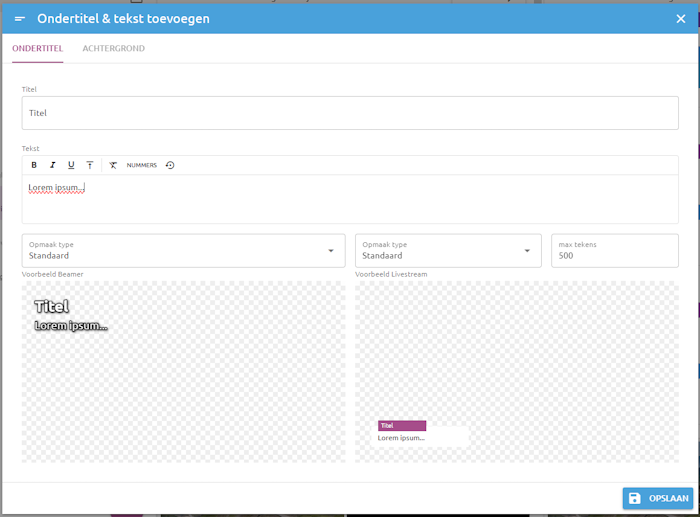
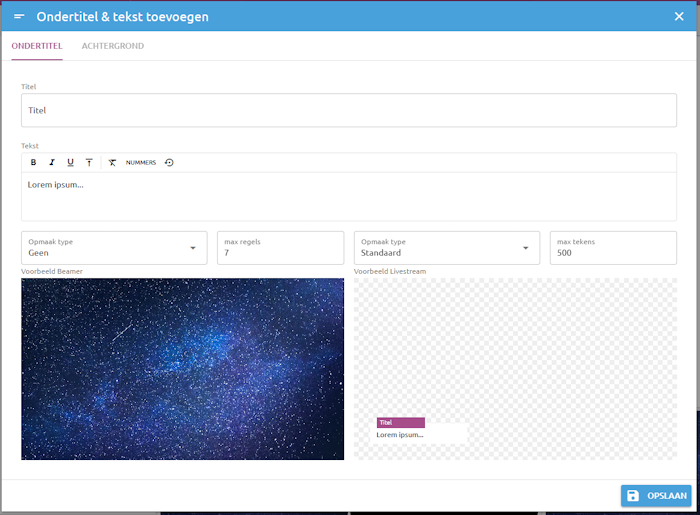
add maxBeamerLine to settings caption/scripture + help update

diff --git a/src/components/caption/CaptionSettingsPreview.vue b/src/components/caption/CaptionSettingsPreview.vue
@@ -1,14 +1,29 @@
 <template>
   <div class="row q-gutter-md">
     <div class="col">
-      <q-select
-        v-model="settingsFormatBeamer"
-        :options="listFormatBeamer"
-        fill-input
-        outlined
-        label="Opmaak type"
-        @update:model-value="$emit('update:formatBeamer', settingsFormatBeamer)"
-      />
+      <div class="row">
+        <q-select
+          v-model="settingsFormatBeamer"
+          :options="listFormatBeamer"
+          fill-input
+          class="col q-pb-none"
+          outlined
+          label="Opmaak type"
+          @update:model-value="$emit('update:formatBeamer', settingsFormatBeamer)"
+        />
+        <q-input
+          v-model.number="settingsMaxBeamerLine"
+          type="number"
+          outlined
+          stack-label
+          class="col2 q-pl-md q-pb-none"
+          min="1"
+          step="1"
+          label="max regels"
+          :rules="[min1]"
+          @update:model-value="$emit('update:maxBeamerLine', settingsMaxBeamerLine)"
+        />
+      </div>
       <label class="label">Voorbeeld Beamer</label>
       <div>
         <OutputPreview :component="CaptionOutputBeamer" :presentation="{ settings, control }" bg-show="beamer" />
@@ -31,10 +46,10 @@
           outlined
           stack-label
           class="col2 q-pl-md q-pb-none"
-          min="100"
+          min="50"
           step="50"
           label="max tekens"
-          :rules="[min100]"
+          :rules="[min50]"
           @update:model-value="$emit('update:maxLivestreamChar', settingsMaxLivestreamChar)"
         />
       </div>
@@ -64,12 +79,14 @@ export default defineComponent({
     },
     formatBeamer: String,
     formatLivestream: String,
+    maxBeamerLine: Number,
     maxLivestreamChar: Number,
     savedPos: Number
   },
   emits: [
     'update:formatBeamer',
     'update:formatLivestream',
+    'update:maxBeamerLine',
     'update:maxLivestreamChar'
   ],
   setup () {
@@ -79,6 +96,7 @@ export default defineComponent({
     return {
       settingsFormatBeamer: this.settings.formatBeamer,
       settingsFormatLivestream: this.settings.formatLivestream,
+      settingsMaxBeamerLine: this.settings.maxBeamerLine,
       settingsMaxLivestreamChar: this.settings.maxLivestreamChar,
       listFormatLivestream: [
         'Standaard',
@@ -115,6 +133,10 @@ export default defineComponent({
       this.beamerTitleDebounce()
       this.splitSlidesDebounce()
     },
+    'settings.maxBeamerLine' () {
+      this.updated = false
+      this.splitSlidesDebounce()
+    },
     'settings.maxLivestreamChar' () {
       this.updated = false
       this.splitSlidesDebounce()
@@ -130,11 +152,17 @@ export default defineComponent({
     this.splitSlidesDebounce = debounce(this.splitSlidesDebounce, 500)
   },
   methods: {
-    min100 (val) {
+    min1 (val) {
       if (typeof val !== 'number') {
         return
       }
-      return val >= 100 || 'Minimaal 100'
+      return val >= 1 || 'Minimaal 1'
+    },
+    min50 (val) {
+      if (typeof val !== 'number') {
+        return
+      }
+      return val >= 50 || 'Minimaal 50'
     },
     beamerTitle () {
       // title beamer
@@ -145,7 +173,7 @@ export default defineComponent({
     },
     splitSlides () {
       // slides livestream & beamer
-      this.control.sections = splitTextCaption(this.settings.text, this.settings.formatBeamer, this.settings.maxLivestreamChar || 500)
+      this.control.sections = splitTextCaption(this.settings.text, this.settings.formatBeamer,  this.settings.maxBeamerLine || 7, this.settings.maxLivestreamChar || 500)
       this.countCharSections()
     },
     splitSlidesDebounce () {

diff --git a/src/components/caption/CaptionSplit.js b/src/components/caption/CaptionSplit.js
@@ -2,7 +2,7 @@ import { wrapTextLinesFormat } from '../common/WrapText.js'
 
 const beamerFont = 'Ubuntu, "-apple-system", "Helvetica Neue", Helvetica, Arial, sans-serif'
 
-export function splitTextCaption (text, beamerFormat, maxCharsPerSlide = 500) {
+export function splitTextCaption (text, beamerFormat, maxBeamerLinePerSection = 7, maxCharsPerSlide = 500) {
   if (!text) {
     const slides = [['']]
     const beamerLines = [['']]
@@ -28,7 +28,7 @@ export function splitTextCaption (text, beamerFormat, maxCharsPerSlide = 500) {
         outputSections.push( { slides, beamerLines } )
       }
       // beamer regels & opsplitsen naar ..regels & slides met maximaal ...char vanuit inputsecton 
-      const textLinesTemp = textLines(inputSection, beamerFormat, beamerFont, 7)
+      const textLinesTemp = textLines(inputSection, beamerFormat, beamerFont, maxBeamerLinePerSection)
       textLinesTemp.forEach(textLineTemp => {
         const beamerLines = textLineTemp.formats
         const slides = splitSectionToSlides(textLineTemp, maxCharsPerSlide) // opsplisten naar livestream (sommatie hiervan = beamer section in control)
@@ -36,7 +36,7 @@ export function splitTextCaption (text, beamerFormat, maxCharsPerSlide = 500) {
         outputSections.push( { slides, beamerLines } )
       })
   })
-
+  console.log('outputSections', outputSections)
   return outputSections  
 }
 
@@ -207,7 +207,16 @@ function splitSectionToSlides (section, livestreamMaxCharCount = 500) {
         })
       }
       
-      htmlText += htmlformat + formatText.text.replace(/ {2}/g, '&nbsp;&nbsp;').replace(/^ /g, '&nbsp;').replace(/ $/g, '&nbsp;') + htmlformat.replace('<','</')
+      htmlText +=
+        htmlformat
+        + formatText.text
+          .replace(/&/g, '&amp;') // first & // html-entities
+          .replace(/</g, '&lt;')
+          .replace(/>/g, '&gt;')
+          .replace(/ {2}/g, '&nbsp;&nbsp;')
+          .replace(/^ /g, '&nbsp;')
+          .replace(/ $/g, '&nbsp;')
+        + htmlformat.replace('<','</')
     })
     htmlText += '</div>'
     slides.push(htmlText)

diff --git a/src/components/help/HelpCaption.vue b/src/components/help/HelpCaption.vue
@@ -25,7 +25,7 @@
     <p>
       <b><u>Tekst</u></b><br>
       Vul hier de tekst in die je wilt weergegeven.<br>
-      Door een lege tussenregel te maken wordt het vervolg van de tekst op een vervolg sheet gezet. De sheet op de cursos positie wordt getoond.
+      Door een lege tussenregel te maken wordt het vervolg van de tekst op een vervolg sheet gezet. De sheet op de cursor positie wordt getoond.
     </p>
     <p>
       Eventueel kunnen delen van de tekst vet, cursief, onderstreept worden,<br>
@@ -57,6 +57,17 @@
         <b>Geen</b><br>
         Er niets weergegeven.
       </li>
+      <li>
+        <b>Max regels</b><br>
+        Hier kan je invoeren regels de tekst maximaal mag hebben voor hij in meerdere delen gesplitst wordt tov de invoer.<br>
+        Splitsen van regels gebeurt met de volgende voorwaarden:<br>
+        <sup>
+          Zoek eerst of minder dan 'Max regels' regels<br>
+          Dan naar een regeleinde of [.?!'"’]<br>
+          Dan naar [,:; spatie]<br>
+          Dan naar iets binnen 'Max regels'.
+        </sup>
+      </li>
     </ul>
     <p>
       <i><u>Opties Livestream:</u></i>
@@ -80,9 +91,7 @@
         Splitsen van regels gebeurt met de volgende voorwaarden:<br>
         <sup>
           Zoek eerst of minder dan 'Max tekens' tekens<br>
-          Dan naar een regeleinde<br>
-          Dan naar [.?!]+['"’]<br>
-          Dan naar [.?!]<br>
+          Dan naar een regeleinde of [.?!'"’]<br>
           Dan naar [,:; spatie]<br>
           Dan naar iets binnen 'Max tekens'.
         </sup>

diff --git a/src/components/help/HelpScripture.vue b/src/components/help/HelpScripture.vue
@@ -55,16 +55,25 @@
         Het gekozen boek & vertaling, hoofdstuk e.d. wordt als titel op de beamer en livestream weergegeven.
       </li>
       <li>
+        <b>Max regels</b><br>
+        Hier kan je invoeren regels de tekst maximaal mag hebben voor hij in meerdere delen gesplitst wordt tov de invoer.<br>
+        Splitsen van regels gebeurt met de volgende voorwaarden:<br>
+        <sup>
+          Zoek eerst of minder dan 'Max regels' regels<br>
+          Dan naar een regeleinde of [.?!'"’]<br>
+          Dan naar [,:; spatie]<br>
+          Dan naar iets binnen 'Max regels'.
+        </sup>
+      </li>
+      <li>
         <b>Max tekens</b><br>
         Hier kan je invoeren hoeveel tekens de tekst maximaal mag hebben voor hij in meerdere delen gesplitst wordt tov de tekst op de beamer.<br>
         Splitsen van regels gebeurt met de volgende voorwaarden:<br>
         <sup>
-          Zoek eerst of minder dan ingestelde aantal tekens<br>
-          Dan naar een regeleinde<br>
-          Dan naar [.?!]+['"’]<br>
-          Dan naar [.?!]<br>
+          Zoek eerst of minder dan 'Max tekens' tekens<br>
+          Dan naar een regeleinde of [.?!'"’]<br>
           Dan naar [,:; spatie]<br>
-          Dan naar iets binnen ingestelde aantal tekens.
+          Dan naar iets binnen 'Max tekens'.
         </sup>
       </li>
     </ul>

diff --git a/src/components/presentation-control-create.js b/src/components/presentation-control-create.js
@@ -44,9 +44,9 @@ export function addControlCloneDeep (presentation, noLivestream, splitSongLines,
         }
         resultPresentation.control.beamerTitleLines = resultPresentation.settings.formatBeamer === 'Geen' ? [] : titleLines(resultPresentation.settings.title, resultPresentation.settings.formatBeamer)
         if (noLivestream || resultPresentation.settings.formatLivestream === 'Geen') {
-          resultPresentation.control.sections = splitTextCaption(resultPresentation.settings.text, resultPresentation.settings.formatBeamer, 10000)
+          resultPresentation.control.sections = splitTextCaption(resultPresentation.settings.text, resultPresentation.settings.formatBeamer, resultPresentation.settings.maxBeamerLine || 7, 10000)
         } else {
-          resultPresentation.control.sections = splitTextCaption(resultPresentation.settings.text, resultPresentation.settings.formatBeamer, resultPresentation.settings.maxLivestreamChar || 500)
+          resultPresentation.control.sections = splitTextCaption(resultPresentation.settings.text, resultPresentation.settings.formatBeamer, resultPresentation.settings.maxBeamerLine || 7, resultPresentation.settings.maxLivestreamChar || 500)
         }
         if (!preview && startEnd) {
           // this.$store.startEnd = false // reset --> bijgolive

diff --git a/src/stores/versionUpdate.js b/src/stores/versionUpdate.js
@@ -133,6 +133,21 @@ export function versionUpdate (service) {
           default:
         }
       })
+        // eslint-disable-next-line
+      case version <= 2.0105:
+      service.presentations.forEach(presentation => {
+        switch (presentation.type) {
+          case 'caption': {
+            presentation.settings.maxBeamerLine = 20 // high so you don't break formatting
+            break
+          }
+          case 'scripture': {
+            presentation.settings.maxBeamerLine = 20 // high so you don't break formatting
+            break
+          }
+          default:
+        }
+      })
       // eslint-disable-next-line
     default: // no changes
       // console.log(`version file: ${version}`)

diff --git a/src/components/presentation-types.js b/src/components/presentation-types.js
@@ -77,6 +77,7 @@ export default [
       bgFileId: null,
       formatBeamer: 'Geen',
       formatLivestream: 'Standaard',
+      maxBeamerLine: 7,
       maxLivestreamChar: 500,
       osc: {
         clip: null,
@@ -217,6 +218,7 @@ export default [
       bgFileId: null,
       formatBeamer: 'Bijbeltekst',
       formatLivestream: 'Breed',
+      maxBeamerLine: 7,
       maxLivestreamChar: 500,
       osc: {
         clip: null,

diff --git a/src/components/caption/CaptionSettings.vue b/src/components/caption/CaptionSettings.vue
@@ -19,6 +19,7 @@
           <CaptionSettingsPreview
             v-model:formatBeamer="settings.formatBeamer"
             v-model:formatLivestream="settings.formatLivestream"
+            v-model:maxBeamerLine="settings.maxBeamerLine"
             v-model:maxLivestreamChar="settings.maxLivestreamChar"
             :settings="settings"
             :saved-pos="savedPos"

diff --git a/src/components/scripture/ScriptureSettings.vue b/src/components/scripture/ScriptureSettings.vue
@@ -110,6 +110,7 @@
         <CaptionSettingsPreview
           v-model:formatBeamer="settings.formatBeamer"
           v-model:formatLivestream="settings.formatLivestream"
+          v-model:maxBeamerLine="settings.maxBeamerLine"
           v-model:maxLivestreamChar="settings.maxLivestreamChar"
           :settings="settings"
           :saved-pos="savedPos"
